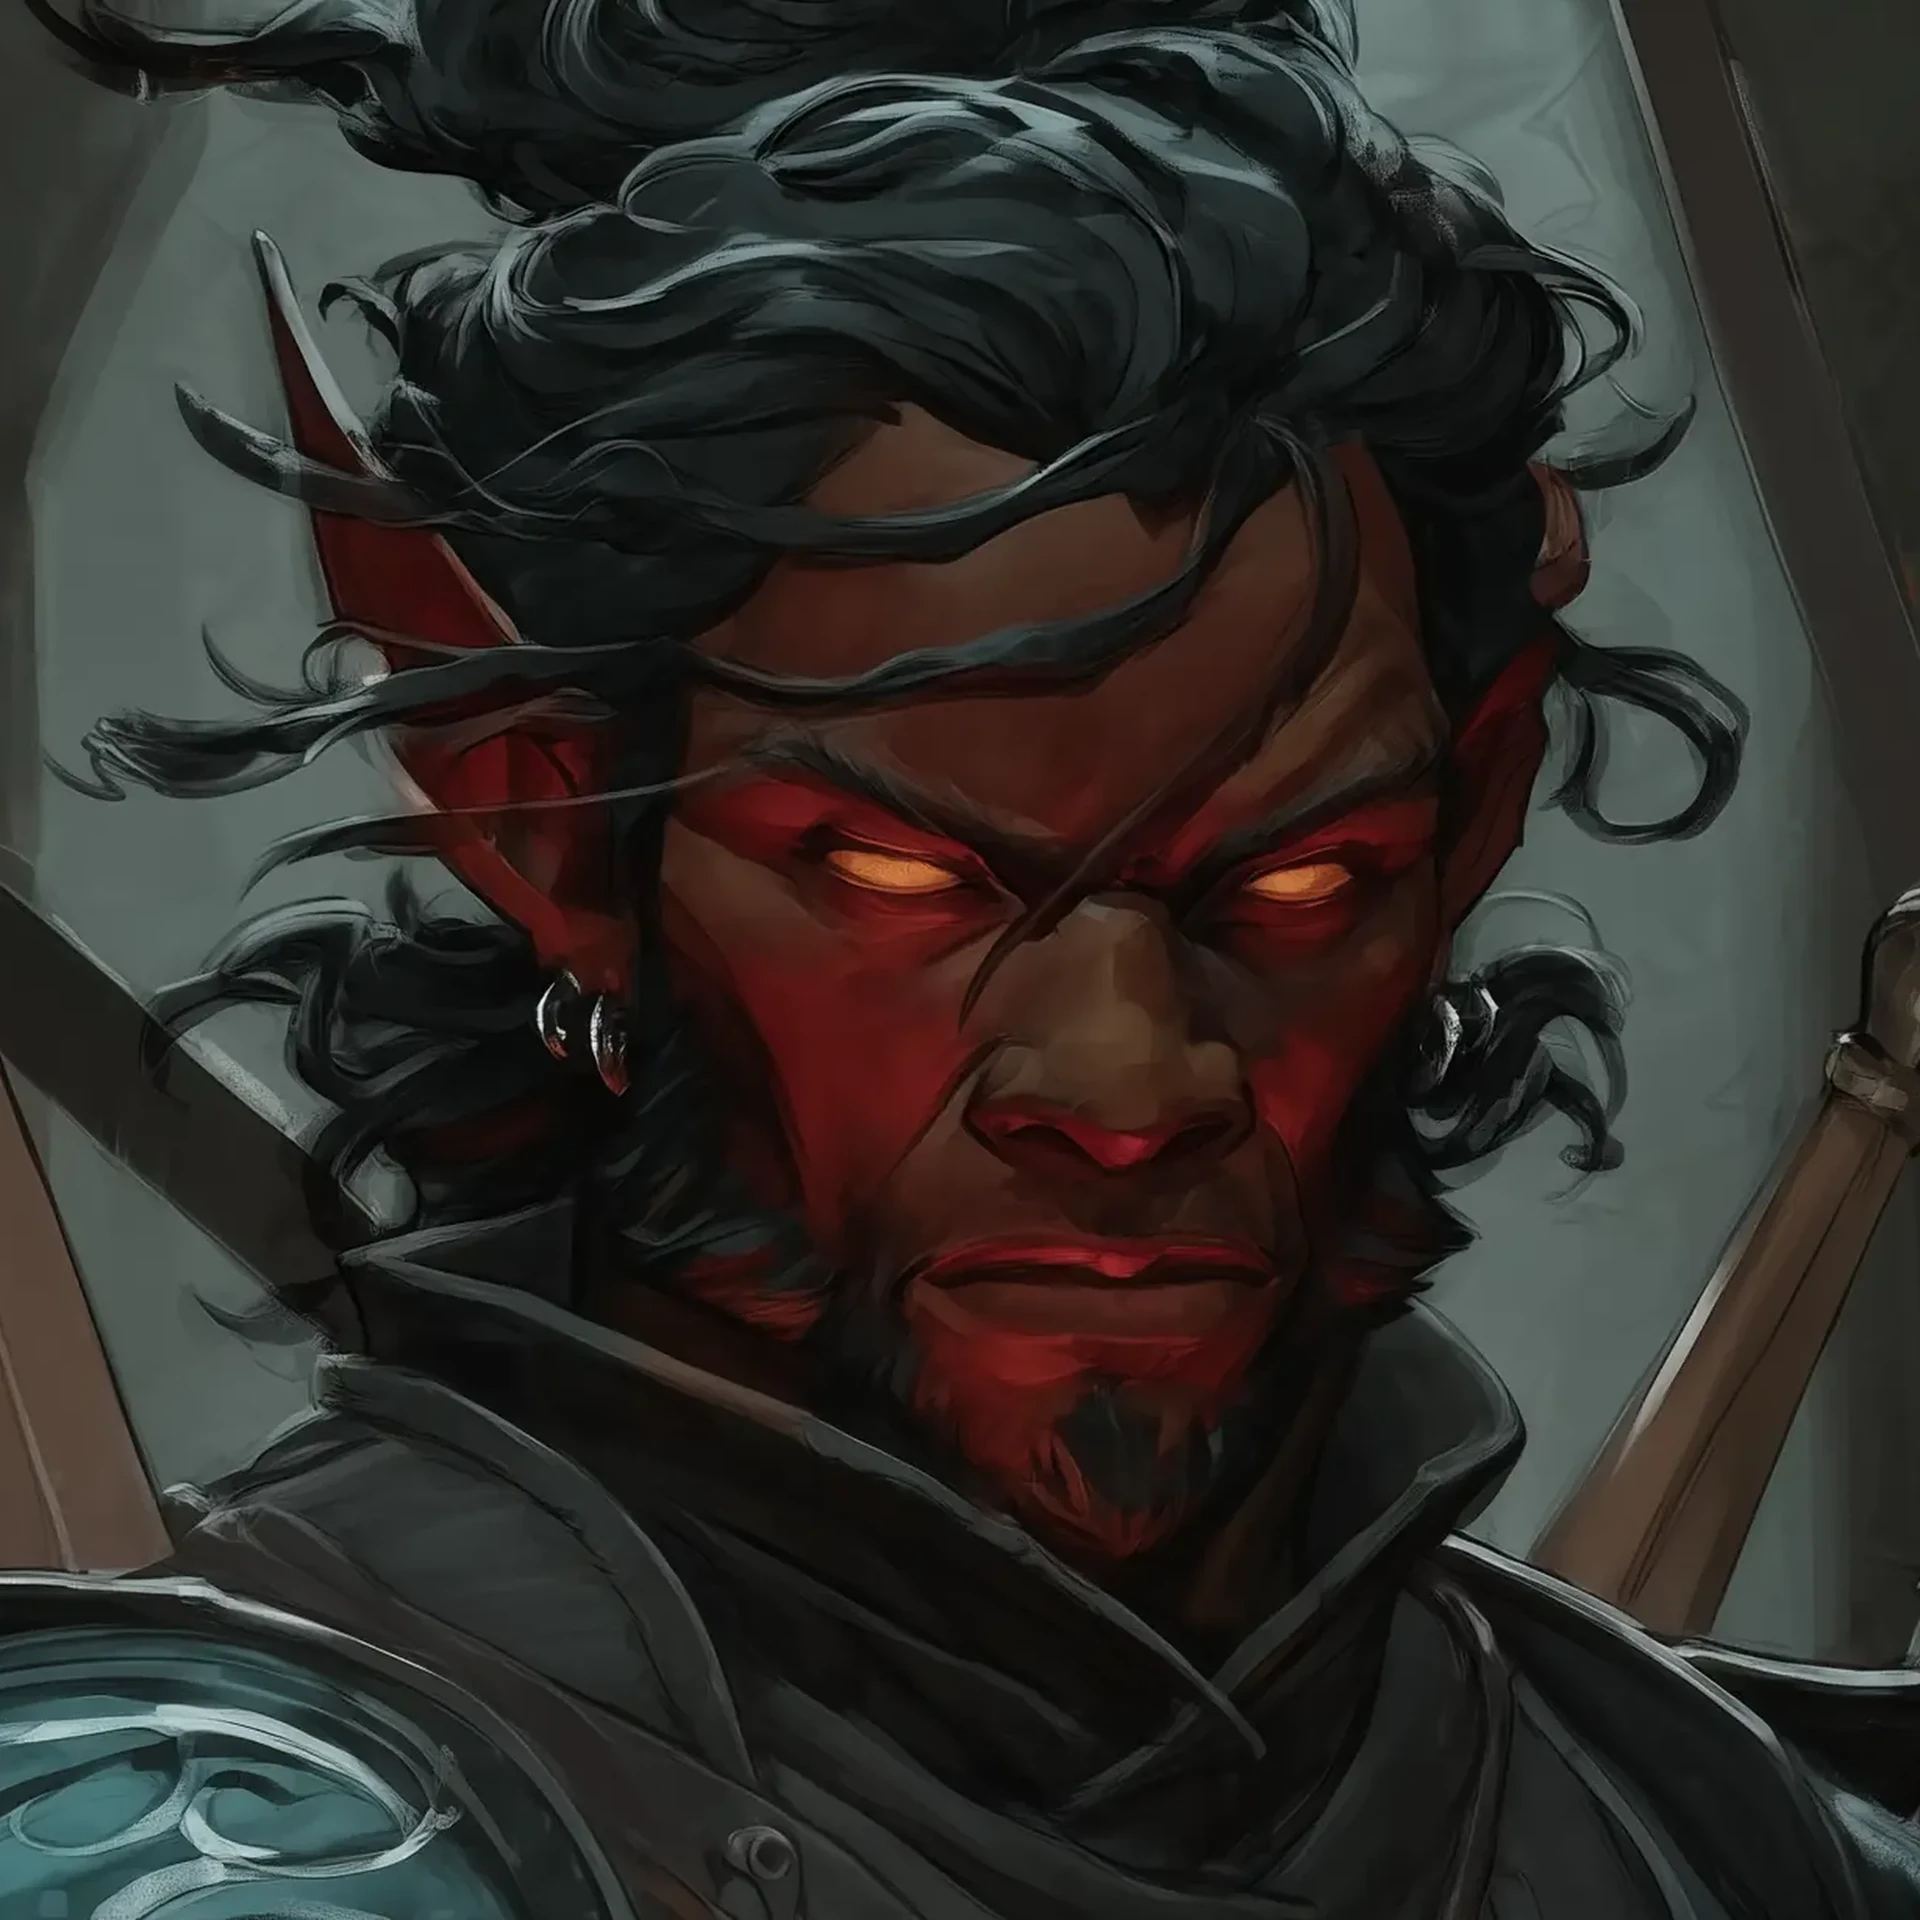
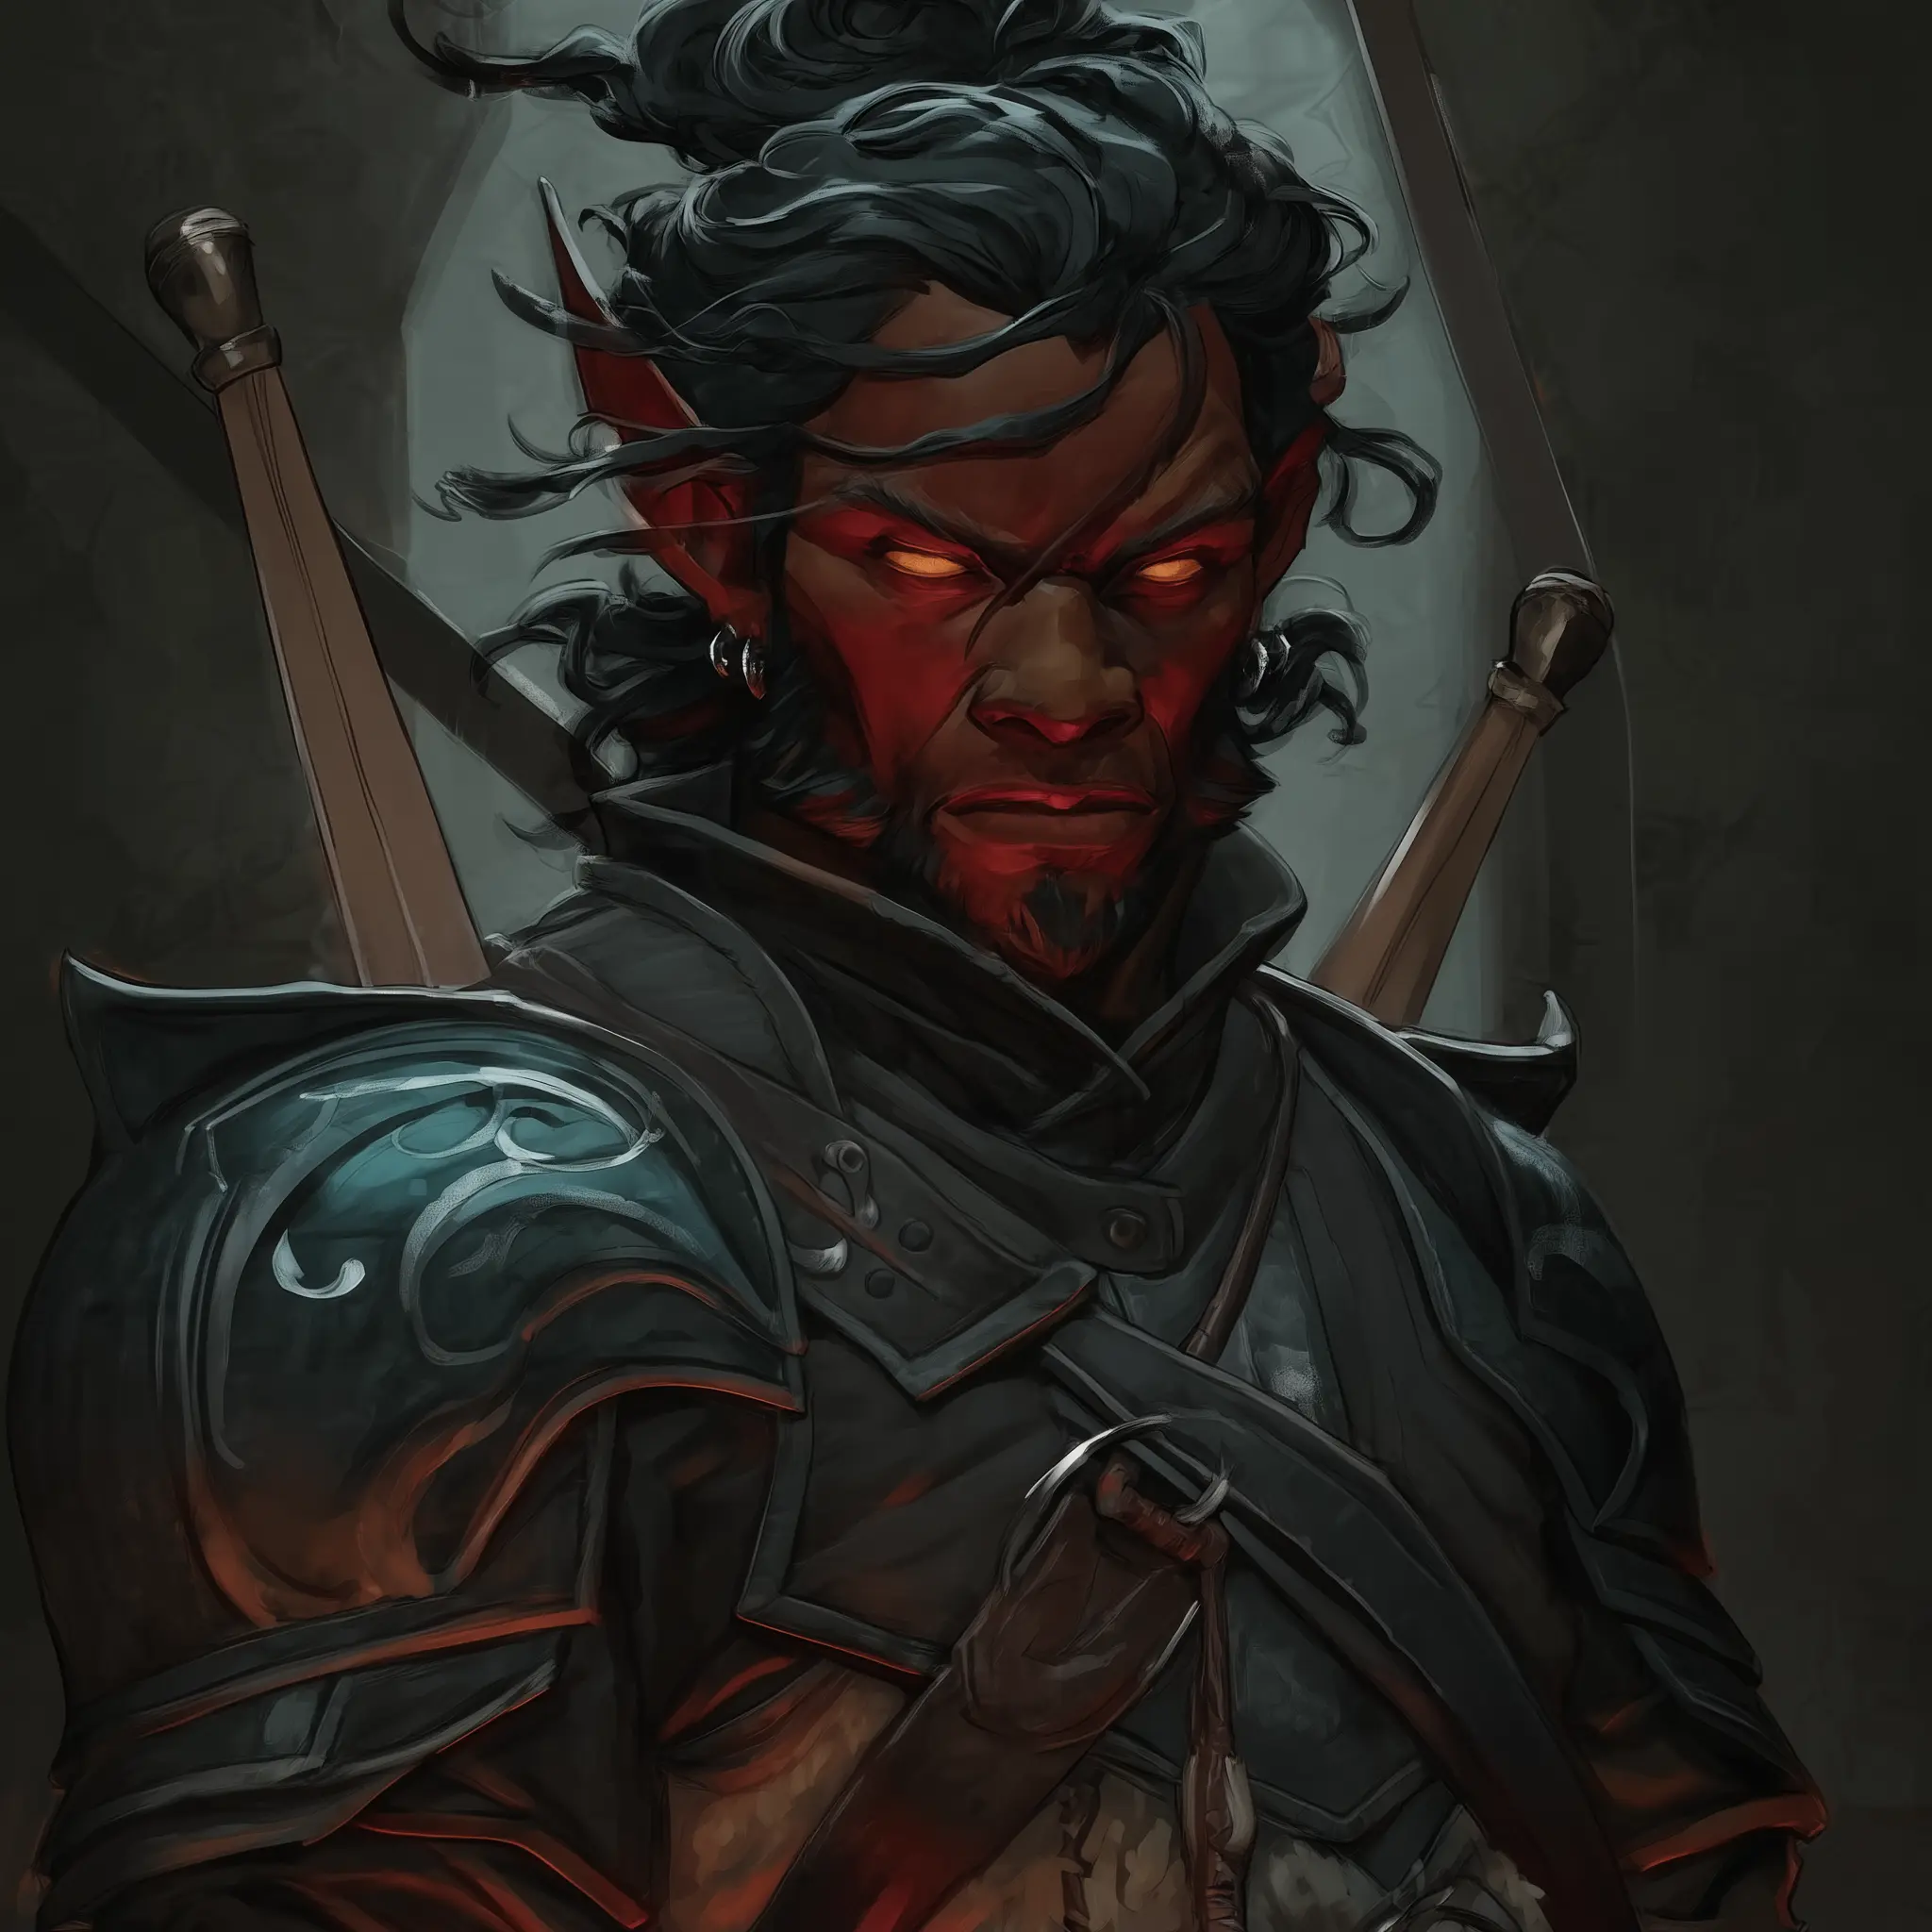
Import Hell's Vengeance/Rebels PCs as 4 playable AI-heroes (v3.25.0)
Femmik Embersword (Ifrit Dawnflower Dervish bard), Freya Kusanagi
(half-elf Samurai/Hellknight), J'Mal (hobgoblin Red Mantis Assassin/
Rogue) and Jason (tiefling Cleric of Asmodeus) — built from their real
Foundry stat blocks and wired into BOT_ROSTER/CLASSES/WEAPONS,
characterBuilds (race), character_voices and banter.

New engine feature — BATTLE DANCE (Dawnflower Dervish): a bard whose
Inspire Courage aids ONLY himself, at DOUBLE value. _maintainBardSongs
now iterates all bards with a NUMERIC per-ally guard, so morale takes
the highest (no stacking) and a battle-dancer's self-buff coexists with
a normal bard's party aura. Behaviorally tested (self +6 / allies +0 at
L12; coexistence with a normal bard).

Also: added Ifrit + Hobgoblin races; 4 custom signature weapons (Lammas
Aeternum finesse scimitar, Balrog's Blessed Blade katana, Angelbone
Sawtooth Sabers dual-wield, Force Pike reach); Jason's Trickery+War
domains; 'lammas' added to Dungeon FINESSE_KEYS.

REMOVED the old freya/jason/jmal ENEMY stat blocks (mandate-#9 audit
across MON / MON_BODY / MON_GANGS / MON_ART / MON_TYPE / ALIGN_BY_KEY).

diff --git a/backend/src/game/dungeon/abilities.js b/backend/src/game/dungeon/abilities.js
@@ -27,6 +27,12 @@ const { fighterFeats } = require('../../pf1data/feats');
 const loadouts = require('../../pf1data/loadouts');
 const banter = require('../../bot/banter');
 
+// BATTLE DANCE (Dawnflower Dervish) — a bard whose Inspire Courage does NOT aid
+// allies but affects ONLY himself, at DOUBLE value. Keyed by player_id. Femmik
+// Embersword is the Dervish; see _maintainBardSongs. (House style: same shape as
+// UNDEAD_HEROES / the finesse-weapon sets.)
+const BATTLE_DANCERS = new Set(['femmik embersword']);
+
 // ── DOMAIN granted powers (DOMAINS-DESIGN.md §2/§3.3) ───────────────────────
 // The ACTIVE powers, injected as synthetic room-cost abilities AFTER the class
 // kit (_abilitiesFor) so the existing slot-index pipeline (buttons, blind menu,
@@ -596,27 +602,39 @@ module.exports = ({ ABILITY_MOD, CAST_MOD, SICKENED_PENALTY, SICKENED_ROUNDS, BL
   // a manual cast.
   _inspireBonus(lvl) { return 1 + Math.floor(((lvl || 1) + 1) / 6); },
   _maintainBardSongs() {
-    const bard = this.present().find(m => m.cls === 'bard' && !m.dead);
-    if (!bard) return;
+    const bards = this.present().filter(m => m.cls === 'bard' && !m.dead);
+    if (!bards.length) return;
     const ab = (kitFor('bard').abilities || []).find(a => a.key === 'inspire');
     if (!ab) return;
-    const insp = this._inspireBonus(bard.level);
-    let fresh = false;
-    for (const a of this.present()) {
-      if (a.dead) continue;
-      a.runBuffApplied = a.runBuffApplied || {};
-      if (a.runBuffApplied.inspire) continue;
-      a.runBuffApplied.inspire = true;
-      a.runBuffs = a.runBuffs || { toHit: 0, dmg: 0 };
-      a.runBuffs.toHit += insp;
-      a.runBuffs.dmg   += insp;
-      fresh = true;
+    // The guard `a.runBuffApplied.inspire` holds the NUMERIC bonus already folded
+    // in (was a boolean) — morale bonuses don't stack, so the HIGHEST wins and we
+    // only apply the delta. This lets a Battle Dancer's self-only double coexist
+    // with a normal bard's party aura on the same members without double-dipping.
+    let bestBonus = 0, bestBard = null, bestBD = false;
+    for (const bard of bards) {
+      const base = this._inspireBonus(bard.level);
+      const bd = BATTLE_DANCERS.has((bard.playerId || '').toLowerCase());
+      const bonus = bd ? base * 2 : base;                    // Battle Dance: doubled
+      const targets = bd ? [bard] : this.present();          // Battle Dance: self only
+      for (const a of targets) {
+        if (a.dead) continue;
+        a.runBuffApplied = a.runBuffApplied || {};
+        const prev = a.runBuffApplied.inspire || 0;
+        if (bonus <= prev) continue;                          // a stronger song already covers them
+        const delta = bonus - prev;
+        a.runBuffs = a.runBuffs || { toHit: 0, dmg: 0 };
+        a.runBuffs.toHit += delta;
+        a.runBuffs.dmg   += delta;
+        a.runBuffApplied.inspire = bonus;
+        if (bonus > bestBonus) { bestBonus = bonus; bestBard = bard; bestBD = bd; }
+      }
+      bard.runAbilityUses = bard.runAbilityUses || {};
+      bard.runAbilityUses.inspire = 0;   // the song is up — no manual cast needed (won't be re-picked)
     }
-    bard.runAbilityUses = bard.runAbilityUses || {};
-    bard.runAbilityUses.inspire = 0;   // the song is up — no manual cast needed (won't be re-picked)
-    if (fresh && !this._inspireAnnounced) {
+    if (bestBard && !this._inspireAnnounced) {
       this._inspireAnnounced = true;
-      this._note(`${ab.icon} ${bard.nickname} keeps ${ab.name} up — the whole party fights at +${insp} to hit and damage, all delve!`, ab.sound);
+      if (bestBD) this._note(`${ab.icon} ${bestBard.nickname} whirls into a Dawnflower Dervish's BATTLE DANCE — HE alone burns at +${bestBonus} to hit and damage, all delve!`, ab.sound);
+      else this._note(`${ab.icon} ${bestBard.nickname} keeps ${ab.name} up — the whole party fights at +${bestBonus} to hit and damage, all delve!`, ab.sound);
     }
   },
   // (_kitState moved to game/dungeon/serialize.js — Phase-2 seam 2)

diff --git a/backend/src/pf1data/staples.js b/backend/src/pf1data/staples.js
@@ -107,6 +107,23 @@ const CUSTOM_WEAPONS = {
   gnomehammer: { key: 'gnomehammer', name: 'Gnome Hooked Hammer', cat: '1h', ranged: false, dmgCount: 1, dmgDie: 8, crit: 20, mult: 3, type: 'B', group: 'hammers', prof: 'exotic', custom: true, dual: true, noShield: true, atkSound: '/audio/weapon_warhammer.mp3' },
   // Tokala's CHAINSAW — a roaring 3d6 slashing two-hander that crits on an 18.
   chainsaw: { key: 'chainsaw', name: 'Chainsaw', cat: '2h', ranged: false, dmgCount: 3, dmgDie: 6, crit: 18, mult: 2, type: 'S', group: 'axes', prof: 'exotic', custom: true, atkSound: '/audio/weapon_chainsaw.mp3' },
+  // ── THE HELL'S VENGEANCE / REBELS PCs — now playable AI-heroes (2026-07-05) ──
+  // Femmik's scimitar "Lammas Aeternum" (1d6, 18-20/×2). A Dawnflower Dervish
+  // wields the scimitar with GRACE — it's in Dungeon.js FINESSE_KEYS, so it rides
+  // his DEX (24) for to-hit AND damage. custom => always proficient (bards aren't
+  // normally proficient with scimitars; the Dervish Dance feat grants it).
+  lammas: { key: 'lammas', name: 'Lammas Aeternum', cat: '1h', ranged: false, dmgCount: 1, dmgDie: 6, crit: 18, mult: 2, type: 'S', group: 'bladesHeavy', prof: 'martial', custom: true, atkSound: '/audio/sword_eviscerate2_flaming.mp3' },
+  // Freya Kusanagi's katana "Balrog's Blessed Blade" — a FLAMING samurai's blade
+  // (1d8, 18-20/×2). She's a samurai, already proficient; custom => the blade is
+  // always hers. (Flaming report via atkSound; the +1d6 fire rider is a later polish.)
+  balrogblade: { key: 'balrogblade', name: "Balrog's Blessed Blade", cat: '1h', ranged: false, dmgCount: 1, dmgDie: 8, crit: 18, mult: 2, type: 'S', group: 'bladesHeavy', prof: 'martial', custom: true, atkSound: '/audio/sword_eviscerate2_flaming.mp3' },
+  // J'Mal's "Angelbone Sawtooth Sabers" — TWIN sawtoothed sabres (Red Mantis
+  // signature), two-weapon fighting (2 swings/turn, one report; no shield),
+  // 1d8 18-20/×2. His Red Mantis Assassin / Rogue sneak dice ride the class.
+  sawtoothsabers: { key: 'sawtoothsabers', name: 'Angelbone Sawtooth Sabers', cat: '1h', ranged: false, dmgCount: 1, dmgDie: 8, crit: 19, mult: 2, type: 'S', group: 'bladesHeavy', prof: 'exotic', custom: true, dual: true, noShield: true, atkSound: '/audio/fight_riki.mp3' },
+  // Jason's "Force Pike" — an Asmodean priest's reach weapon (1d10, ×3). custom =>
+  // always proficient. reachFly lets him strike airborne foes from the back rank.
+  forcepike: { key: 'forcepike', name: 'Force Pike', cat: '2h', ranged: false, dmgCount: 1, dmgDie: 10, crit: 20, mult: 3, type: 'P', group: 'spears', prof: 'martial', custom: true, reachFly: true },
   // The DRUID's Shillelagh — a club a druid empowers with nature's strength
   // (1d10, ×2, blunt). Simple/always-proficient; the druid's signature weapon.
   shillelagh: { key: 'shillelagh', name: 'Shillelagh', cat: '1h', ranged: false, dmgCount: 1, dmgDie: 10, crit: 20, mult: 2, type: 'B', group: 'clubs', prof: 'simple', custom: true, atkSound: '/audio/weapon_blunt.mp3' },

diff --git a/backend/src/pf1data/monsters.js b/backend/src/pf1data/monsters.js
@@ -215,11 +215,8 @@ const MON = {
   // ── PALACE UNIQUES & CARRION CROWN CANON — bosses pulled from the Iron Gods
   //    world's Palace Uniques folder and the carrioncrown archive, at their
   //    in-story canonical levels (Tobias 2026-07-04). ──
-  // ── THE HELLKNIGHT WARBAND — Freya's cadre (Hell's Rebels flavor). They
-  //    ride together; developed further later. ──
-  freya:             { name: 'Freya',             glyph: '⚔️', cr: '14',  hp: 140, ac: 26, toHit: 20, dmgDie: 8, dmgCount: 1, dmgBonus: 12, fort: 12, reflex: 8, attacks: 3, gold: [300, 520], evil: true, atkSound: '/audio/sword_eviscerate2_flaming.mp3' },   // Fighter 15 Hellknight — a +5 FLAMING-BURST katana (1d8+7 +1d6 fire folded → d8+12), full iteratives (cavalier/hellknight levels later)
-  jason:             { name: 'Jason',             glyph: '😈', cr: '13',  hp: 120, ac: 23, toHit: 13, dmgDie: 8, dmgBonus: 5, fort: 11, reflex: 8, gold: [280, 480], evil: true, healer: { dice: 3, uses: 3 }, caster: 'holdperson', spellDC: 18, shout: { fear: true, dc: 18, sound: '/audio/enemy_lich_gaze.mp3' }, precast: ['shieldoffaith', 'protfire'], hellfire: { count: 3, dice: 6, die: 6, dc: 18, dtype: 'fire', verb: 'calls a PILLAR OF HELLFIRE down on the party', sound: '/audio/spell_hellfire.mp3' } },   // Tiefling Cleric 15 of Asmodeus — holds, dread litany, hellfire, battle-mendings, pre-warded
-  jmal:              { name: 'Jmal',              glyph: '🗡️', cr: '13',  hp: 115, ac: 24, toHit: 17, dmgDie: 6, dmgBonus: 6, fort: 8, reflex: 13, attacks: 3, sneakDice: 8, evasion: true, gold: [280, 480], evil: true, atkSound: '/audio/fight_riki.mp3' },   // Hobgoblin Rogue 15 — twin sawtooth sabers + deep sneak (8d6); Evasion
+  // (Freya / Jason / Jmal removed as ENEMIES 2026-07-05 — they are the Hell's
+  //  Vengeance PCs and now ship as PLAYABLE AI-HEROES; see db.js BOT_ROSTER.)
   black_sovereign:   { name: 'Kevoth-Kul, the Black Sovereign', glyph: '👑', cr: '16', hp: 210, ac: 19, toHit: 30, dmgDie: 6, dmgCount: 4, dmgBonus: 17, fort: 16, reflex: 7, attacks: 3, vicious: 6, gold: [400, 700], atkSound: '/audio/sword_eviscerate2_flaming.mp3', hype: '/audio/tool_sober_hype.mp3' },   // BOSS — Barbarian 17 swinging BURNING HATE, his +5 VICIOUS greatsword: 2d6+18 blade + 2d6 vicious per hit — and the blade bites HIM for 1d6 every hit too (CN — enthralled, not evil; smite finds no purchase)
   amalokla:          { name: 'Amalokla, the First Sovereign', sr: 28, glyph: '👻', cr: '17', hp: 225, ac: 28, toHit: 24, dmgDie: 8, dmgBonus: 8, fort: 14, reflex: 17, attacks: 2, flying: true, gold: [440, 760], evil: true, dr: { amount: 10, bypass: 'magic' }, shout: { fear: true, dc: 22, sound: '/audio/enemy_lich_gaze.mp3' }, spellstrike: { dice: 6, die: 6, dtype: 'negative', lifesteal: true, sound: '/audio/spell_umbral_bolt.mp3' } },   // BOSS — the dybbuk who first ruled Numeria: PAIN TOUCH drains the living, dread presence, SR 28
   brogwort:          { name: 'Brogwort the Dim',  glyph: '🪨', cr: '17',  hp: 243, ac: 27, toHit: 27, dmgDie: 8,  dmgCount: 2, dmgBonus: 11, fort: 14, reflex: 13, attacks: 3, gold: [440, 760], atkSounds: ['/audio/wolf_bite_.mp3', '/audio/sword_smack_big.mp3'], hype: '/audio/backstreet_everybody_sexual.mp3' },   // BOSS — Huge athach (18 HD): bite + two slams a round, dim but VERY thorough
@@ -263,7 +260,6 @@ const MON_BODY = {
   charauka_warrior: { size: 'S' }, charauka_stepper: { size: 'S' }, charauka_mancer: { size: 'S' },
   ikualoa: { size: 'H' },
   brogwort: { size: 'H' },   // athach
-  jmal: { size: 'M' },
   rivozair: { size: 'H', legs: 4 },   // devil-bound blue dragon
 };
 for (const [k, b] of Object.entries(MON_BODY)) if (MON[k]) Object.assign(MON[k], b);
@@ -332,7 +328,6 @@ const MON_GANGS = {
   // ex-PC bosses: Blackout stalks with the Numerian machines; Ragh muscles
   // with the big folk and the goblinoid warbands he bullies
   blackout: ['construct'], ragh: ['giant', 'goblinoid'],
-  freya: ['hellknight'], jason: ['hellknight', 'devil'], jmal: ['hellknight', 'goblinoid'],
   // Palace Uniques rule Numeria (machine minions); the CC canon lead the dead
   black_sovereign: ['construct'], amalokla: ['undead', 'construct'], brogwort: ['giant'],
   auren_vrood: ['undead'], vorkstag: ['undead'], tar_baphon: ['undead'],
@@ -391,7 +386,6 @@ const MON_ART = {
   sahuagin_prince: 'sahuagin_prince', charauka_warrior: 'charauka_warrior', charauka_stepper: 'charauka_stepper',
   charauka_mancer: 'charauka_mancer', ikualoa: 'ikualoa', captain_thrune: 'captain_thrune',
   blackout: 'blackout', ragh: 'ragh',
-  freya: 'freya', jason: 'jason', jmal: 'jmal',
   black_sovereign: 'black_sovereign', amalokla: 'amalokla', brogwort: 'brogwort',
   auren_vrood: 'auren_vrood', vorkstag: 'vorkstag', tar_baphon: 'tar_baphon',
   rivozair: 'rivozair',
@@ -432,7 +426,6 @@ const MON_TYPE = {
   shackles_marine: 'humanoid', shackles_seacaster: 'humanoid', shackles_swashbuckler: 'humanoid',
   shackles_officer: 'humanoid', bentbeak_charney: 'humanoid', captain_maris: 'humanoid', captain_thrune: 'humanoid',
   blackout: 'humanoid', ragh: 'humanoid',
-  freya: 'humanoid', jason: 'outsider', jmal: 'humanoid',
   black_sovereign: 'humanoid', vorkstag: 'humanoid', auren_vrood: 'humanoid',
   amalokla: 'undead', tar_baphon: 'undead', brogwort: 'giant',
   charauka_warrior: 'humanoid', charauka_stepper: 'humanoid', charauka_mancer: 'humanoid',
@@ -509,7 +502,6 @@ const ALIGN_BY_KEY = {
   fungal_pirate: 'NE', fungal_oracle: 'NE', fungal_captain: 'NE',
   ikualoa: 'N',
   blackout: 'NE', ragh: 'CE',
-  freya: 'LE', jason: 'LE', jmal: 'LE',
   black_sovereign: 'CN',   // enthralled, not evil — smite finds no purchase
   rivozair: 'LE',
   amalokla: 'NE', brogwort: 'CE', auren_vrood: 'NE', vorkstag: 'CE', tar_baphon: 'NE',

diff --git a/backend/src/version.js b/backend/src/version.js
@@ -3,6 +3,16 @@
 // bump MINOR for each feature batch, PATCH for fix-only batches, and note the
 // change in one line below. Newest first; keep each line short.
 //
+//  3.25.0 2026-07-05  HELL'S VENGEANCE/REBELS PCs → 4 PLAYABLE AI-HEROES (real
+//                     Foundry builds): Femmik Embersword (Ifrit Dawnflower Dervish
+//                     bard — new BATTLE DANCE: his Inspire Courage is self-only &
+//                     DOUBLED; DEX-finesse scimitar "Lammas Aeternum"), Freya
+//                     Kusanagi (half-elf Samurai/Hellknight, flaming katana),
+//                     J'Mal (hobgoblin Red Mantis Assassin/Rogue, twin sawtooth
+//                     sabers), Jason (tiefling Cleric of Asmodeus, reach force
+//                     pike, trickery/war domains). Added Ifrit + Hobgoblin races.
+//                     REMOVED the old freya/jason/jmal ENEMY stat blocks (they're
+//                     heroes now, not villains).
 //  3.24.0 2026-07-05  SLAYER Studied Target (Stage 2, completes the class): a
 //                     SWIFT/free-action mark on ONE foe — every attack the slayer
 //                     makes against it gains +N insight to hit AND damage
@@ -265,4 +275,4 @@
 //                     Waves of Exhaustion/Banishment/Greater Heroism/Mass
 //                     Suggestion/inq Greater Dispel) · Domains Phase A data
 //  3.0.x  ≤2026-07-03 the informal "v3" era (see git history)
-module.exports = { VERSION: '3.24.0' };
+module.exports = { VERSION: '3.25.0' };

diff --git a/backend/src/persistence/db.js b/backend/src/persistence/db.js
@@ -274,6 +274,13 @@ const BOT_ROSTER = [
   { name: 'Olbryn',               avatar: '/tokens/olbryn.webp',                 baseMode: 'risky',    intelligence: 'high', gender: 'he'     }, // Josh's Drow storm-sorcerer (Iron Gods) — Staff of Lightning (+2 CL to electricity); wild-magic, selfish-but-loyal
   { name: 'Binch',                avatar: '/tokens/binch.webp',                  baseMode: 'standard', intelligence: 'average', gender: 'she' }, // Cleric of Besmara — Trickery + Liberation; older woman
   { name: 'Celeb',                avatar: '/tokens/celeb.webp',                  baseMode: 'standard', intelligence: 'high', gender: 'he'     }, // Cleric of NETHYS — arcane-dabbling, wears no armor
+
+  // Round 8 — the Hell's Vengeance / Rebels PCs, imported as PLAYABLE AI-heroes
+  // (you play the villains in those APs). Real Foundry builds; see characterBuilds.
+  { name: 'Femmik Embersword',    nickname: 'Femmik', avatar: '/tokens/femmik.webp', baseMode: 'risky',    intelligence: 'high',    gender: 'he'  }, // Ifrit Dawnflower Dervish bard — self-buffs (Battle Dance), then DEX-scimitars faces off
+  { name: 'Freya Kusanagi',       nickname: 'Freya',  avatar: '/tokens/freya.webp',  baseMode: 'standard', intelligence: 'high',    gender: 'she' }, // Half-elf Samurai/Hellknight field marshal — STR 26, flaming katana
+  { name: "J'Mal",                avatar: '/tokens/jmal.webp',                   baseMode: 'risky',    intelligence: 'average', gender: 'he'  }, // Hobgoblin Red Mantis Assassin/Rogue — twin sawtooth sabers + sneak (Tim's character)
+  { name: 'Jason',                avatar: '/tokens/jason.webp',                  baseMode: 'cautious', intelligence: 'high',    gender: 'he'  }, // Tiefling Divine Scion/Cleric of Asmodeus — WIS caster, reach force pike
 ];
 
 const DEFAULT_STACK = parseInt(process.env.DEFAULT_STACK || '5000', 10);
@@ -441,6 +448,8 @@ const BOT_CLASSES = {
   'Rissa': 'druid', 'Taelys': 'gunslinger', 'Ulfred': 'cleric', 'Vaughan': 'magus', 'Duristan Silvio': 'gunslinger',   // Taelys + Duristan: PF1 gunslingers (rifles)
   'Holden': 'swashbuckler',
   'Ser Toche': 'rogue', 'El Guapo': 'swashbuckler', 'Gabriel': 'paladin',
+  // Hell's Vengeance / Rebels PCs → AI-heroes (real Foundry builds):
+  'Femmik Embersword': 'bard', 'Freya Kusanagi': 'samurai', "J'Mal": 'rogue', 'Jason': 'cleric',
 };
 // Sensible default base weapon per class so AI aren't all daggers in the dungeon.
 const CLASS_WEAPON = {
@@ -469,6 +478,8 @@ const BOT_WEAPONS = {
   'Nomkath': 'kukri', 'Kelda': 'dagger',   // rogues — dual-wield light blades (dagger / kukri)
   'Ser Toche': 'elvencurve',               // tengu rogue — elven curved blade (DEX two-hander)
   'Gabriel': 'redeemer',                   // Hell's Rebels paladin — green-glass greatsword Redeemer (Divine Bond makes it holy)
+  // Hell's Vengeance / Rebels PCs — signature weapons (see pf1data/staples.js):
+  'Femmik Embersword': 'lammas', 'Freya Kusanagi': 'balrogblade', "J'Mal": 'sawtoothsabers', 'Jason': 'forcepike',
 };
 const weaponForBot = (name, cls) => BOT_WEAPONS[name] || weaponForClass(cls);
 

diff --git a/backend/src/bot/character_voices.js b/backend/src/bot/character_voices.js
@@ -97,6 +97,14 @@ const CHARACTER_VOICES = {
   // API is a separate path — leaving null until we wire it up.
   'Crisp':             null,
 
+  // Hell's Vengeance / Rebels PCs → AI-heroes (2026-07-05). PLACEHOLDER picks from
+  // the existing library so they speak immediately — swap to purpose-picked 11labs
+  // voices on request (like Farrah/Bujon/etc. were refined).
+  'Femmik':            'GEDXnQvfyd3quuXsFgKU', // Felix — flamboyant (shared w/ Estovion/El Guapo): cocky Ifrit fire-dancer
+  'Freya':             'EXAVITQu4vr4xnSDxMaL', // Sarah — mature, confident, commanding: the half-elf field marshal
+  "J'Mal":             'CJnd8k7Q0w2Y1HegJ65F', // John 117 — stoic (shared w/ Vaughan): the quiet Red Mantis assassin
+  'Jason':             'UzI1NsMEV3ni5JRkRSls', // Alistair — cultured, articulate (shared w/ Tar Baphon): the Asmodean priest
+
   // Vorkstag: see voiceFor() — he uses the voice of whoever he's
   // impersonating (Seat.impersonatedNick). When the impersonated
   // target has no voice in this map (humans / unmapped bots), he

diff --git a/backend/src/pf1data/characterBuilds.js b/backend/src/pf1data/characterBuilds.js
@@ -71,6 +71,12 @@ const BUILDS = {
   'Meyanda':                 { race: 'android' },
   'Vorkstag':                { race: 'skinwalker' },
   'Crisp':                   { race: 'animal' },     // deinonychus — natural attacks via 'bite' weapon
+
+  // ── Hell's Vengeance / Rebels PCs → playable AI-heroes (2026-07-05) ──
+  'Femmik Embersword':       { race: 'ifrit' },      // Dervish Dancer bard (DEX/CHA); Ifrit +2 Dex/+2 Cha/−2 Wis matches his real WIS 7
+  'Freya Kusanagi':          { race: 'half_elf', flex: 'str' },   // Samurai/Hellknight — STR 26 bruiser; floating +2 into STR
+  "J'Mal":                   { race: 'hobgoblin' },  // Red Mantis Assassin / Rogue — DEX finesse dual-saber + sneak
+  'Jason':                   { race: 'tiefling' },   // Divine Scion / Cleric of Asmodeus — WIS caster (tiefling darkvision + resist)
 };
 
 module.exports = { BUILDS };

diff --git a/backend/src/bot/banter.js b/backend/src/bot/banter.js
@@ -197,6 +197,11 @@ const _lastSpokenAt = new Map();   // tableId -> ms timestamp
 // ~200 chars — too much detail and the model loses the thread. Names
 // must match BOT_ROSTER nicknames exactly (the lookup is by nickname).
 const CHARACTER_FLAVOR = {
+  // ===== Hell's Vengeance / Rebels PCs → AI-heroes =====
+  'Femmik': 'Femmik Embersword — a flamboyant IFRIT (fire-blooded) DAWNFLOWER DERVISH: a bard who fights as a whirling scimitar-dancer. Vain, sun-drunk, theatrical; he pumps himself up with a private war-dance (his Inspire Courage only feeds HIM, doubled) and then carves. Talks like a showman in love with his own blade and Sarenrae\'s dawn — "Watch the dance!", struts, flirts, brags about his footwork. All heat and swagger, little patience. VICTORY LINES: "The dance ends, and I\'m still standing.", "Sarenrae\'s dawn, and your ashes.", "Too slow. Always too slow."',
+  'Freya': 'Freya Kusanagi — a half-elf FIELD MARSHAL, a Samurai turned HELLKNIGHT of the Order tempered by discipline and law. Cold, precise, commanding; STR 26 and a flaming katana. Speaks in clipped orders and iron certainties — duty, order, the weakness of the undisciplined. No wasted words, no mercy for sloppiness; a tyrant\'s competence. VICTORY LINES: "Order is inevitable.", "You lacked discipline.", "The blade decides. It has decided."',
+  "J'Mal": "J'Mal — a hobgoblin RED MANTIS ASSASSIN and rogue, twin sawtooth sabers and a killer's patience. Quiet, dry, professional; treats a poker table like a contract — reads marks, waits, strikes. Speaks rarely and low, in the flat calm of someone who has already decided how this ends. Faint gallows humor. VICTORY LINES: \"Contract fulfilled.\", \"You never saw the second blade.\", \"Nothing personal. Mostly.\"",
+  'Jason': 'Jason — a tiefling DIVINE SCION and CLERIC OF ASMODEUS, devil-blooded and silk-smooth. Cultured, patient, contractual; everything is a deal and Hell always collects. Speaks with courteous menace — offers, terms, fine print, veiled threats wrapped in politeness. Invokes Asmodeus, order, and the inevitability of debt. VICTORY LINES: "The terms were always in my favor.", "Hell thanks you for your contribution.", "You signed the moment you sat down."',
   'Binch': 'Binch — a weathered OLDER WOMAN, a salt-crusted priestess of BESMARA (pirate queen of the seas). Sly, unbothered, seen-it-all; talks like a grandmotherly buccaneer — fond of nautical turns of phrase, gentle needling, and Besmara oaths ("by the Pirate Queen", "Besmara\'s tricky tides"). She favors misdirection over force. VICTORY LINES: "The tide always turns my way, dear.", "Tricked ye proper.", "Besmara smiles on the cunning."',
   'Celeb': 'Celeb — a serene, bookish CLERIC OF NETHYS (god of magic) who studies the arcane as devoutly as the divine. Measured, curious, faintly professorial; speaks of the All-Seeing Eye and the balance of magic. Wears no armor, trusting spellcraft over steel. VICTORY LINES: "Knowledge is the surest wager.", "The Eye sees all the cards.", "Magic favors the patient mind."',
   // ===== Iron Gods (Numeria) =====

diff --git a/backend/src/pf1data/races.js b/backend/src/pf1data/races.js
@@ -48,6 +48,10 @@ const RACES = {
   skinwalker: { name: 'Skinwalker', mods: { wis: 2, cha: -2 },     size: 'medium', speed: 30, vision: 'low-light',     saves: {},                     traits: ['+2 WIS, −2 CHA', 'Change shape (beast-form)', 'Low-light vision'] },
   leshy:    { name: 'Leshy',    mods: { con: 2, wis: 2, cha: -2 }, size: 'small',  speed: 20, vision: 'low-light',     saves: {},                     traits: ['+2 CON, +2 WIS, −2 CHA', 'Plant (immune to mind-affecting — Phase 2)', 'Small', 'Low-light vision'] },
   animal:   { name: 'Animal',                                       size: 'medium', speed: 40, vision: 'low-light',     saves: {},                     traits: ['No racial ability adjustments (not a humanoid race)', 'Natural attacks (via weapon)', 'Low-light vision', 'Scent'] },
+  // Ifrit — fire-touched Geniekin (Femmik). Fire resist 5; the −2 WIS shows in his headlong style.
+  ifrit:    { name: 'Ifrit',    mods: { dex: 2, cha: 2, wis: -2 }, size: 'medium', speed: 30, vision: 'darkvision60',  saves: {},                     traits: ['+2 DEX, +2 CHA, −2 WIS', 'Fire resistance 5', 'Darkvision 60'] },
+  // Hobgoblin — disciplined goblinoid soldiers (J'Mal). Tough and quick.
+  hobgoblin:{ name: 'Hobgoblin', mods: { dex: 2, con: 2 },          size: 'medium', speed: 30, vision: 'darkvision60',  saves: {},                     traits: ['+2 DEX, +2 CON', 'Darkvision 60'] },
 };
 
 const DEFAULT_RACE = 'none';   // unassigned → no racial mods (zero change until a race is chosen)

diff --git a/backend/src/game/Dungeon.js b/backend/src/game/Dungeon.js
@@ -80,7 +80,7 @@ function ccd(o) { return !!o && (o.asleep || o.fascinated || o.charmed || (o.par
 // A "finessable" melee weapon (light, or a one-handed fencing blade) — what a
 // swashbuckler's Precise Strike, Weapon Focus/Specialization and Improved
 // Critical key off of.
-const FINESSE_KEYS = new Set(['rapier', 'scimitar', 'shortsword', 'dagger', 'kukri', 'cutlass', 'estoc', 'sword_cane', 'starknife', 'sap', 'radiance', 'curator', 'bastardsblade']);   // bastardsblade: Kai Ginn's DEX-ridden fauchard
+const FINESSE_KEYS = new Set(['rapier', 'scimitar', 'shortsword', 'dagger', 'kukri', 'cutlass', 'estoc', 'sword_cane', 'starknife', 'sap', 'radiance', 'curator', 'bastardsblade', 'lammas']);   // bastardsblade: Kai Ginn's DEX-ridden fauchard; lammas: Femmik's Dawnflower Dervish scimitar (Dervish Dance = DEX to hit & damage)
 function isFinesseWeapon(w) { return !!w && !w.ranged && (w.cat === 'light' || FINESSE_KEYS.has(w.key)); }
 function maxHpFor(cls, level) { return hdFor(cls) * Math.max(1, level || 1) + fighterFeats(cls, level).hp; }
 // (gatingLevel + the *_FEAT_AT tables moved to pf1data/feats.js — concept split 2026-07-04)

diff --git a/backend/src/pf1data/domains.js b/backend/src/pf1data/domains.js
@@ -74,7 +74,7 @@ const DOMAIN_KEYS = Object.keys(DOMAINS);
 // Defaults when a player has never picked: the powers Tim/Josh already rely on.
 const DEFAULTS = { inquisitor: ['liberation'], cleric: ['healing', 'war'] };
 // Per-CHARACTER domain defaults (override the class default until they pick).
-const CHAR_DOMAINS = { binch: ['trickery', 'liberation'] };
+const CHAR_DOMAINS = { binch: ['trickery', 'liberation'], jason: ['trickery', 'war'] };   // Jason: Asmodean tyrant-priest — contracts/deception + Hell's iron order
 const maxDomainsFor = (cls) => cls === 'cleric' ? 2 : cls === 'inquisitor' ? 1 : 0;
 
 module.exports = { DOMAINS, DOMAIN_KEYS, DEFAULTS, CHAR_DOMAINS, maxDomainsFor };